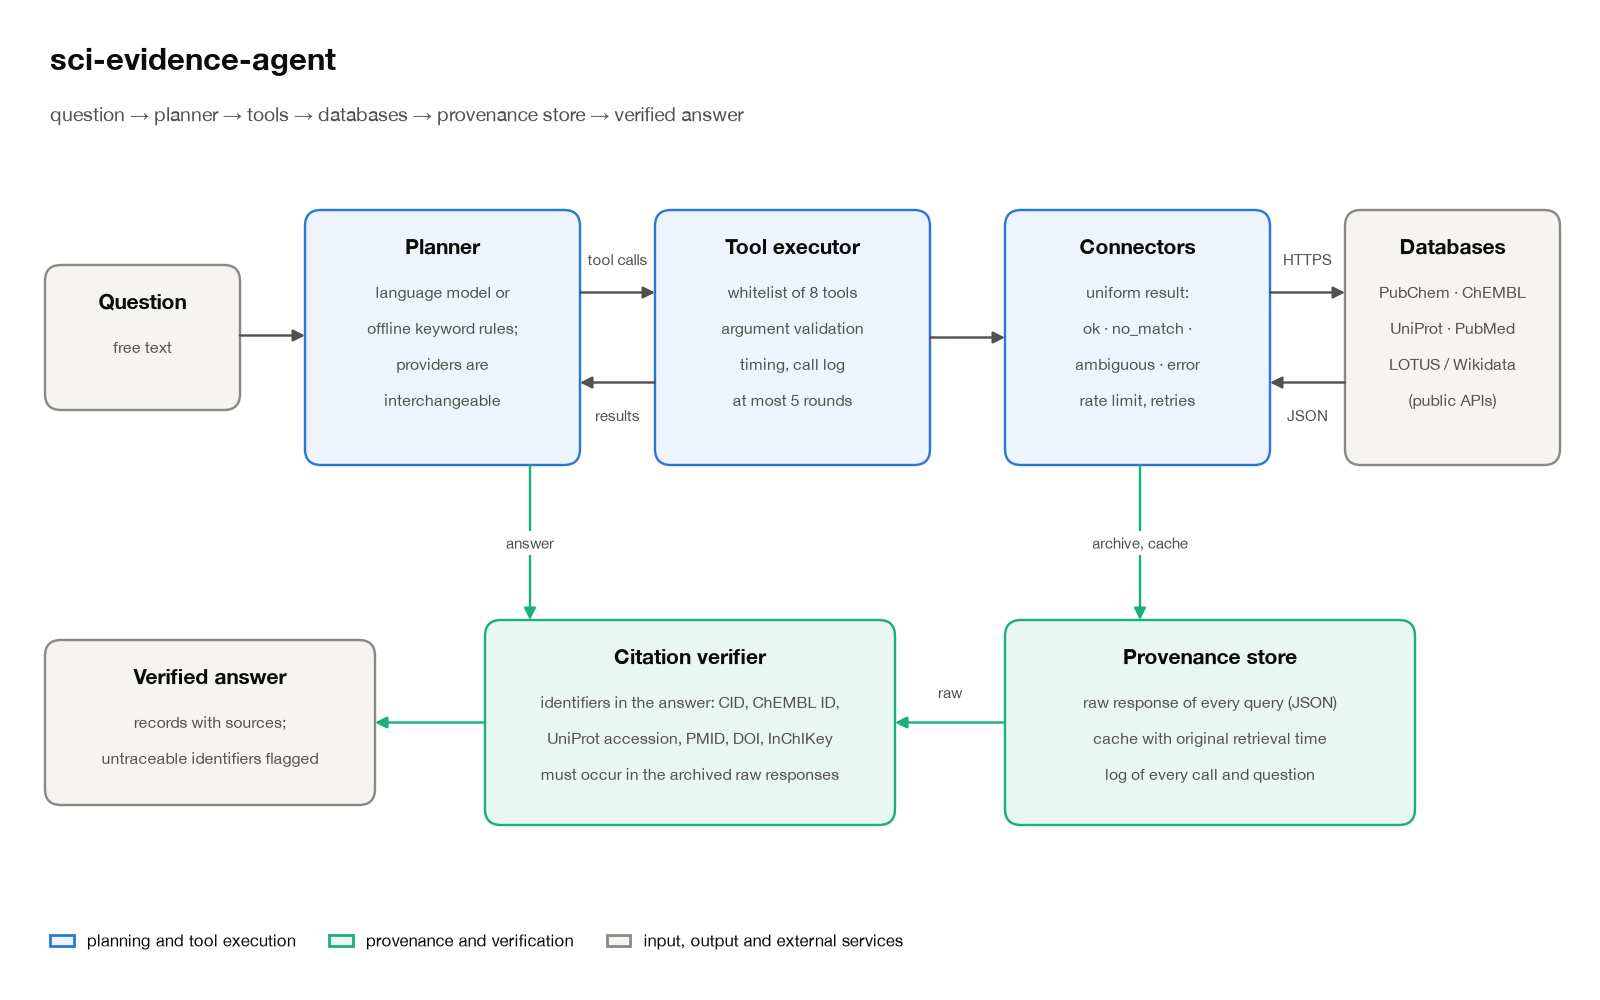
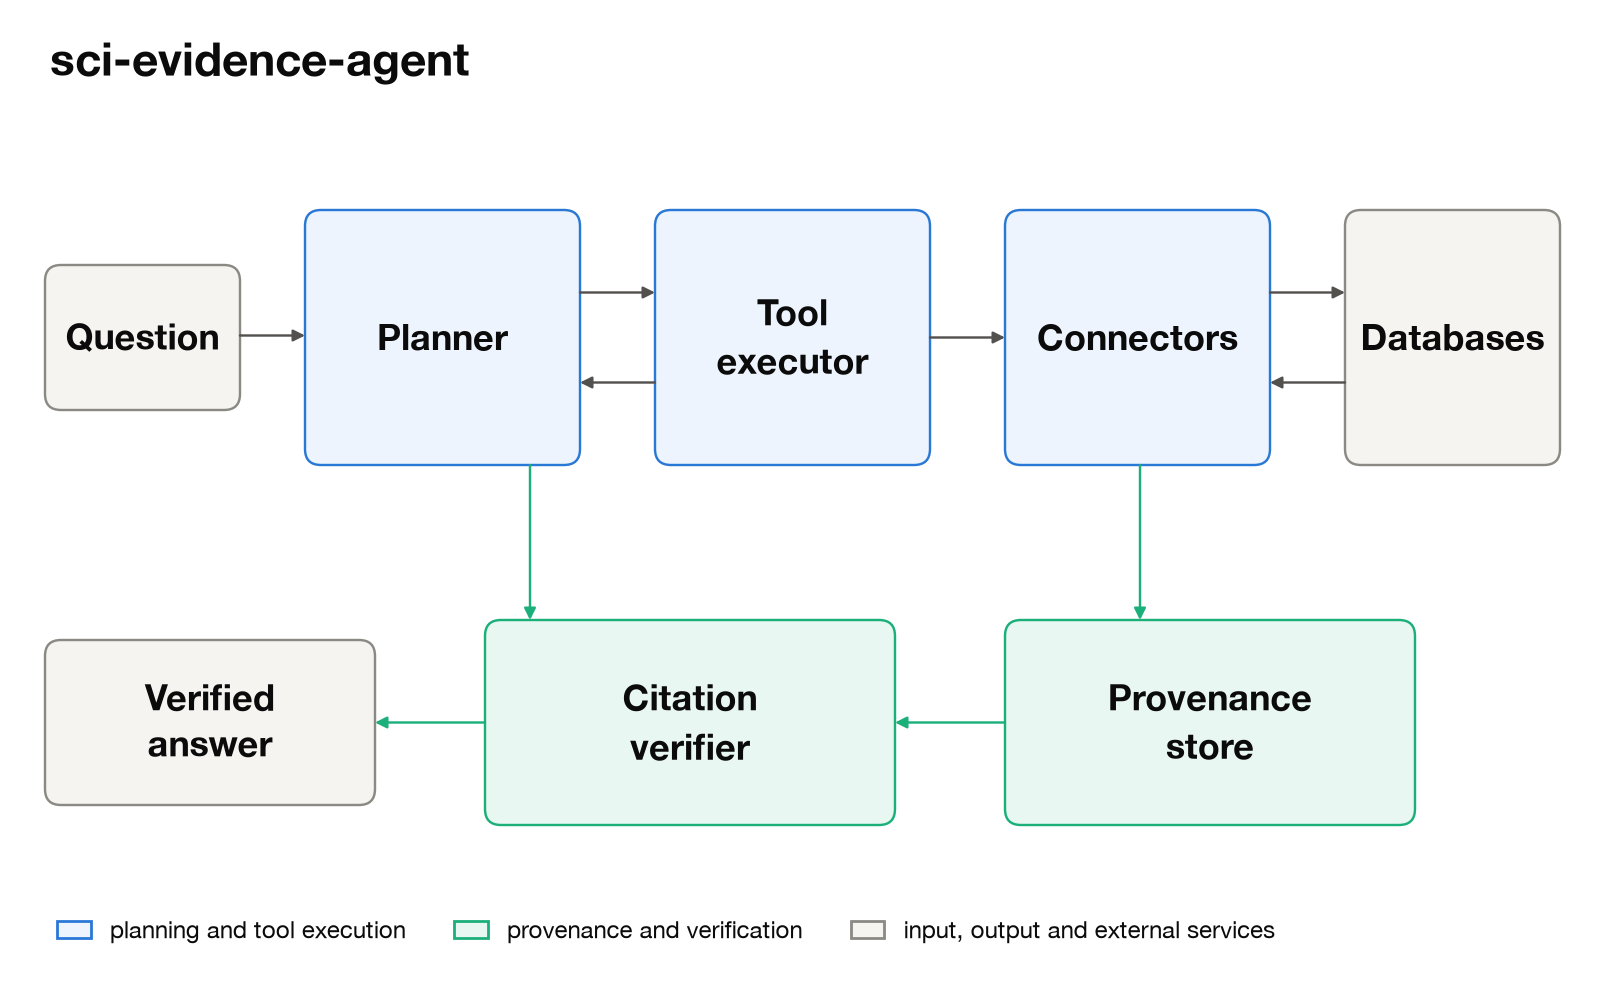
Figures: draw the web teaser with the box titles only, in large type
The teaser is shown as a small thumbnail, where the detail lines of the
architecture diagram cannot be read. figures/architecture.png is unchanged.

diff --git a/scripts/make_figures.py b/scripts/make_figures.py
@@ -7,7 +7,8 @@ Outputs (PNG, 200 dpi, white background):
 
     figures/eval_per_category.png   per-category results, read from <results>/summary.json
     figures/architecture.png        architecture diagram (2400 x 1500 px)
-    figures/teaser_1600x1000.png    the same diagram as a web teaser, exactly 1600 x 1000 px
+    figures/teaser_1600x1000.png    the diagram reduced to its box titles in large type, for
+                                    small web thumbnails; exactly 1600 x 1000 px
 
 Needs matplotlib (``pip install -e ".[eval]"``).
 """
@@ -284,7 +285,7 @@ def figure_evaluation(results_dir: Path, out: Path) -> None:
 # -- figure 2: architecture ------------------------------------------------------------
 
 
-def _box(ax, x, y, w, h, kind, title, lines, scale) -> None:
+def _box(ax, x, y, w, h, kind, title, lines, scale, title_size=11.5) -> None:
     fill, edge = PANEL[kind]
     ax.add_patch(
         FancyBboxPatch(
@@ -297,6 +298,19 @@ def _box(ax, x, y, w, h, kind, title, lines, scale) -> None:
             linewidth=1.3 * scale,
         )
     )
+    if not lines:  # title only, centred in the box
+        ax.text(
+            x + w / 2,
+            y + h / 2,
+            title,
+            ha="center",
+            va="center",
+            fontsize=title_size * scale,
+            fontweight="bold",
+            color=INK,
+            linespacing=1.15,
+        )
+        return
     top = y + h - 0.36
     ax.text(
         x + w / 2,
@@ -304,7 +318,7 @@ def _box(ax, x, y, w, h, kind, title, lines, scale) -> None:
         title,
         ha="center",
         va="center",
-        fontsize=11.5 * scale,
+        fontsize=title_size * scale,
         fontweight="bold",
         color=INK,
     )
@@ -348,30 +362,47 @@ def _arrow(ax, start, end, scale, label=None, label_at=None, curve=0.0, colour=I
         )
 
 
-def figure_architecture(out: Path, width_in: float, height_in: float) -> None:
-    """The pipeline on a 16 x 10 canvas; fonts scale with the output width."""
+def figure_architecture(
+    out: Path, width_in: float, height_in: float, compact: bool = False
+) -> None:
+    """The pipeline on a 16 x 10 canvas; fonts scale with the output width.
+
+    ``compact`` keeps only the box titles, set in large type on two lines, and drops the detail
+    lines, the arrow labels and the subtitle, so that the diagram stays readable as a thumbnail.
+    """
     scale = width_in / 12.0
+    title_size = 19.5 if compact else 11.5
+
+    def box(x, y, w, h, kind, title, lines) -> None:
+        if compact:
+            title, lines = title.replace(" ", "\n"), []
+        _box(ax, x, y, w, h, kind, title, lines, scale, title_size)
+
+    def arrow(start, end, label=None, label_at=None, colour=INK_2) -> None:
+        _arrow(ax, start, end, scale, None if compact else label, label_at, colour=colour)
+
     fig = plt.figure(figsize=(width_in, height_in))
     ax = fig.add_axes((0, 0, 1, 1))
     ax.set_xlim(0, 16)
     ax.set_ylim(0, 10)
     ax.axis("off")
 
-    ax.text(0.5, 9.42, "sci-evidence-agent", fontsize=17 * scale, fontweight="bold", va="center")
-    ax.text(
-        0.5,
-        8.86,
-        "question → planner → tools → databases → provenance store → verified answer",
-        fontsize=10.5 * scale,
-        color=INK_2,
-        va="center",
-    )
+    head = 25 if compact else 17
+    ax.text(0.5, 9.42, "sci-evidence-agent", fontsize=head * scale, fontweight="bold", va="center")
+    if not compact:
+        ax.text(
+            0.5,
+            8.86,
+            "question → planner → tools → databases → provenance store → verified answer",
+            fontsize=10.5 * scale,
+            color=INK_2,
+            va="center",
+        )
 
     # Top row: the request path.
     y, h = 5.35, 2.55
-    _box(ax, 0.45, y + 0.55, 1.95, 1.45, "external", "Question", ["free text"], scale)
-    _box(
-        ax,
+    box(0.45, y + 0.55, 1.95, 1.45, "external", "Question", ["free text"])
+    box(
         3.05,
         y,
         2.75,
@@ -379,10 +410,8 @@ def figure_architecture(out: Path, width_in: float, height_in: float) -> None:
         "pipeline",
         "Planner",
         ["language model or", "offline keyword rules;", "providers are", "interchangeable"],
-        scale,
     )
-    _box(
-        ax,
+    box(
         6.55,
         y,
         2.75,
@@ -390,10 +419,8 @@ def figure_architecture(out: Path, width_in: float, height_in: float) -> None:
         "pipeline",
         "Tool executor",
         ["whitelist of 8 tools", "argument validation", "timing, call log", "at most 5 rounds"],
-        scale,
     )
-    _box(
-        ax,
+    box(
         10.05,
         y,
         2.65,
@@ -401,10 +428,8 @@ def figure_architecture(out: Path, width_in: float, height_in: float) -> None:
         "pipeline",
         "Connectors",
         ["uniform result:", "ok · no_match ·", "ambiguous · error", "rate limit, retries"],
-        scale,
     )
-    _box(
-        ax,
+    box(
         13.45,
         y,
         2.15,
@@ -412,21 +437,19 @@ def figure_architecture(out: Path, width_in: float, height_in: float) -> None:
         "external",
         "Databases",
         ["PubChem · ChEMBL", "UniProt · PubMed", "LOTUS / Wikidata", "(public APIs)"],
-        scale,
     )
 
     mid = y + h / 2
-    _arrow(ax, (2.4, mid + 0.02), (3.05, mid + 0.02), scale)
-    _arrow(ax, (5.8, mid + 0.45), (6.55, mid + 0.45), scale, "tool calls", (6.175, mid + 0.78))
-    _arrow(ax, (6.55, mid - 0.45), (5.8, mid - 0.45), scale, "results", (6.175, mid - 0.78))
-    _arrow(ax, (9.3, mid), (10.05, mid), scale)
-    _arrow(ax, (12.7, mid + 0.45), (13.45, mid + 0.45), scale, "HTTPS", (13.075, mid + 0.78))
-    _arrow(ax, (13.45, mid - 0.45), (12.7, mid - 0.45), scale, "JSON", (13.075, mid - 0.78))
+    arrow((2.4, mid + 0.02), (3.05, mid + 0.02))
+    arrow((5.8, mid + 0.45), (6.55, mid + 0.45), "tool calls", (6.175, mid + 0.78))
+    arrow((6.55, mid - 0.45), (5.8, mid - 0.45), "results", (6.175, mid - 0.78))
+    arrow((9.3, mid), (10.05, mid))
+    arrow((12.7, mid + 0.45), (13.45, mid + 0.45), "HTTPS", (13.075, mid + 0.78))
+    arrow((13.45, mid - 0.45), (12.7, mid - 0.45), "JSON", (13.075, mid - 0.78))
 
     # Bottom row: the evidence path.
     y2, h2 = 1.75, 2.05
-    _box(
-        ax,
+    box(
         10.05,
         y2,
         4.1,
@@ -438,10 +461,8 @@ def figure_architecture(out: Path, width_in: float, height_in: float) -> None:
             "cache with original retrieval time",
             "log of every call and question",
         ],
-        scale,
     )
-    _box(
-        ax,
+    box(
         4.85,
         y2,
         4.1,
@@ -453,10 +474,8 @@ def figure_architecture(out: Path, width_in: float, height_in: float) -> None:
             "UniProt accession, PMID, DOI, InChIKey",
             "must occur in the archived raw responses",
         ],
-        scale,
     )
-    _box(
-        ax,
+    box(
         0.45,
         y2 + 0.2,
         3.3,
@@ -464,22 +483,19 @@ def figure_architecture(out: Path, width_in: float, height_in: float) -> None:
         "external",
         "Verified answer",
         ["records with sources;", "untraceable identifiers flagged"],
-        scale,
     )
 
     green = PANEL["evidence"][1]
-    _arrow(ax, (11.4, y), (11.4, y2 + h2), scale, "archive, cache", (11.4, 4.57), colour=green)
-    _arrow(
-        ax,
+    arrow((11.4, y), (11.4, y2 + h2), "archive, cache", (11.4, 4.57), colour=green)
+    arrow(
         (10.05, y2 + h2 / 2),
         (8.95, y2 + h2 / 2),
-        scale,
         "raw",
         (9.5, y2 + h2 / 2 + 0.3),
         colour=green,
     )
-    _arrow(ax, (5.3, y), (5.3, y2 + h2), scale, "answer", (5.3, 4.57), colour=green)
-    _arrow(ax, (4.85, y2 + h2 / 2), (3.75, y2 + h2 / 2), scale, colour=green)
+    arrow((5.3, y), (5.3, y2 + h2), "answer", (5.3, 4.57), colour=green)
+    arrow((4.85, y2 + h2 / 2), (3.75, y2 + h2 / 2), colour=green)
 
     ax.legend(
         handles=[
@@ -503,7 +519,7 @@ def figure_architecture(out: Path, width_in: float, height_in: float) -> None:
         bbox_to_anchor=(0.022, 0.035),
         ncol=3,
         frameon=False,
-        fontsize=9 * scale,
+        fontsize=(13 if compact else 9) * scale,
         handlelength=1.4,
         columnspacing=2.0,
     )
@@ -515,7 +531,7 @@ def main() -> None:
     results_dir = Path(sys.argv[1]) if len(sys.argv) > 1 else DEFAULT_RESULTS
     FIGURES.mkdir(exist_ok=True)
     figure_architecture(FIGURES / "architecture.png", 12.0, 7.5)
-    figure_architecture(FIGURES / "teaser_1600x1000.png", 8.0, 5.0)
+    figure_architecture(FIGURES / "teaser_1600x1000.png", 8.0, 5.0, compact=True)
     print("wrote figures/architecture.png and figures/teaser_1600x1000.png")
     if (results_dir / "summary.json").is_file():
         figure_evaluation(results_dir, FIGURES / "eval_per_category.png")
